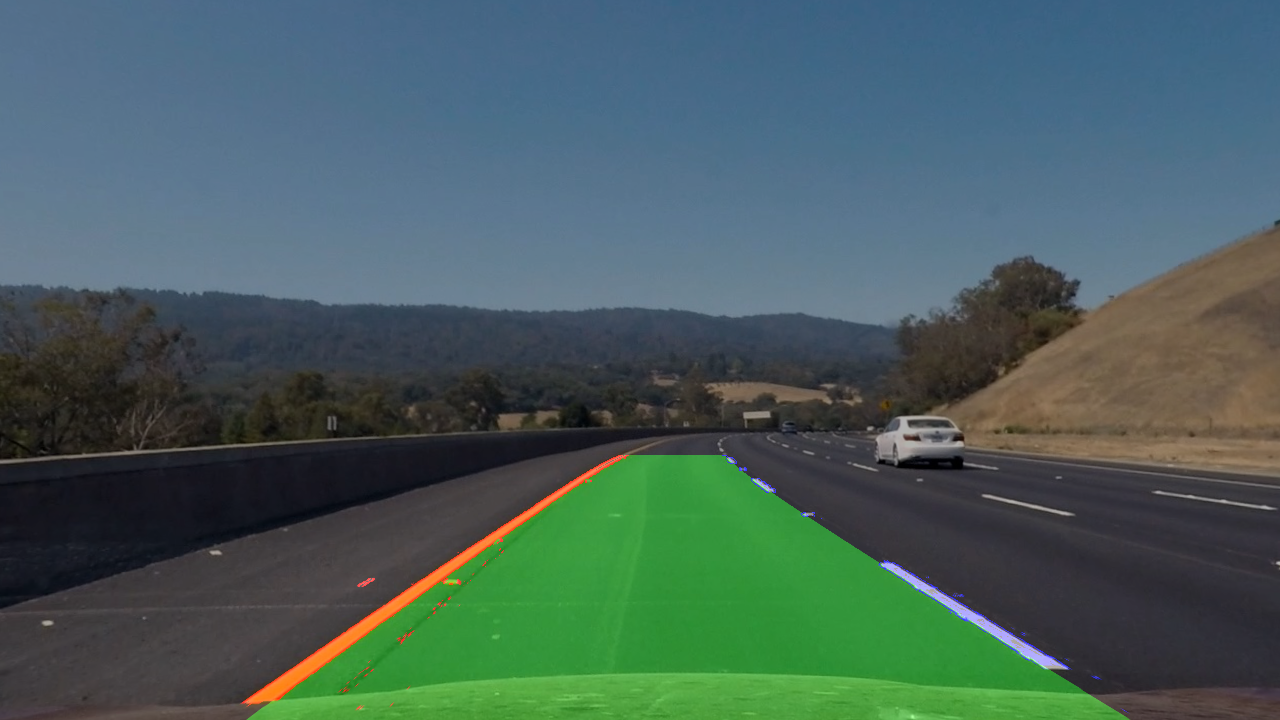
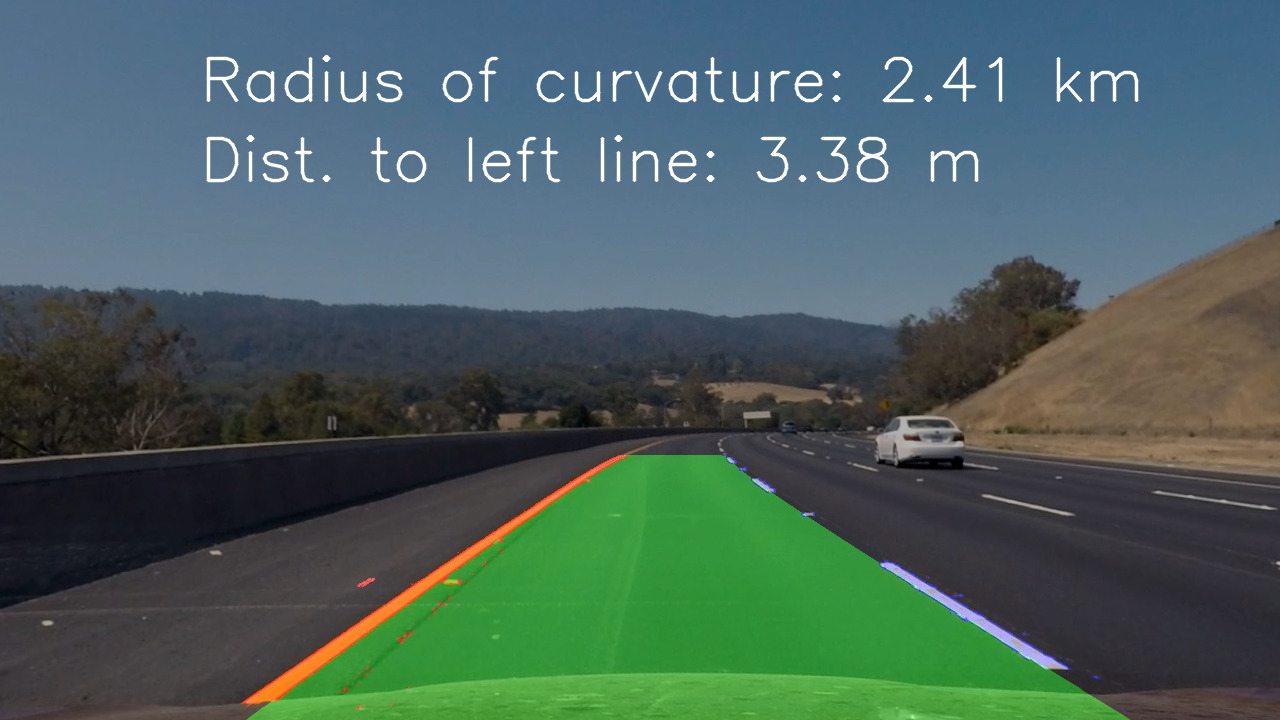
updated writeup

diff --git a/writeup.md b/writeup.md
@@ -19,14 +19,15 @@ The goals / steps of this project are the following:
 
 [image1]: ./output_images/undistort.png "Undistorted"
 [image2]: ./output_images/edge_detected.png "Edge Detected"
-[image3]: ./output_images/top-down.png "Top Down View"
+[image3]: ./output_images/topdown.png "Top Down View"
 [image4]: ./output_images/linefit.png "Line detected and fit"
-[image5]: ./output_images/blended.jpg "Warp back to original view and blended over"
+[image5]: ./output_images/blended.png "Warp back to original view and blended over"
 [video1]: ./output_images/project_video_first_run.mp4 "First Run"
 [video2]: ./output_images/project_video_second_run.mp4 "Second Run"
 
 [image6]: ./output_images/undistort-example.png "Image Calibration"
 [image7]: ./output_images/warp.png "Perspective Change"
+[image7]: ./output_images/pipeline.png "Perspective Change"
 
 ## Description of the work
 
@@ -34,7 +35,7 @@ The goals / steps of this project are the following:
 
 [Rubric](https://review.udacity.com/#!/rubrics/571/view) Points
 
-I have started with invididual steps such as calibration, perspective transform etc. Each individual function is tested using the given sample images. After testing them all, I combined all the code in a single file: pipeline.py. I built first a test run which combines all these steps together. After the test run is working, I started with video. 
+I have started with invididual steps such as calibration, perspective transform etc. Each individual function is tested using the given sample images. After testing them all, I combined all the code in a single file: pipeline.py. I built first a test run (line 273 to line 311) in "pipeline.py"), which combines all these steps together. After the test run is working, I started with video. 
 
 The first trial on video was successful and recorded in "./output_images/project_video_first_run.mp4". The results seem to be very reasonable except that the detection encounters some disturtance when the line is missing for some time or there is strong shadow on the ground. Therefore, I built a second run which adds smoothing function and sanity check. These mechanisms filtered out the unreasonable results and smooth the output. The second run achieved a much better result in the above mentioned scenarios. It is recored in "./output_images/project_video_second_run.mp4". 
 
@@ -90,25 +91,40 @@ Following picture gives an example of the real captured frame after perspective 
 
 #### 4. Find the left and right lines 
 
-Line finding algorithm 
+Line finding algorithm (in "find_lanes()" function) has several steps built-in: 
+1) it searchs for points of left and right lines using histogram and interactive windows. This step outputs "leftx", "lefty", "rightx" and "righty" in "find_lanes()". 
+2) after the points are collected for both lines, it fits the points into a 2nd order polinomial equation, i.e. ax**2 + bx + c. This step outputs "left_fit" and "right_fit" in "find_lanes()". 
+3) the algorithm then recalculates the points using the polinomial. This step outputs "ploty", "left_fitx" and "right_fitx" in "find_lanes()". 
+4) the algorithm will caculate the radius of curverad and distance to the line, for both left and right lines. This function is given in "measure_curvature_pixels()". 
+5) finally, the algorithm checks the sanity of the found lines. This function is given by "sanity_check". If checks succeed, found lines will be stored into two new Line objects, with "detected" value set to "True"; otherwise, algorithm gives two empty lines with "detected" value set to "False". 
+
+"plot_detected_lines" will paint the found lines and line points on the top-down view image calculated in the last step. The green area points the discovered lane betwen left and right lines. Red and blue dots illustrate the original found line points. An example is given below: 
+
+![alt text][image4]
+
+#### 5. The image with discovered lane painted will be warped back to original perspective of camera and blended over the original image
+
+Warping-back is easily implemented by reverse using of "perspective_change()", simply exchaging the source and destination points. 
+
+Blending over original image can be achieved using "addWeighted()" from OpenCV.
+
+Finally, texts about the radius of curvature and distance to left lines are put on the outputted image. An example is given below: 
 
 ![alt text][image5]
 
-#### 5. Describe how (and identify where in your code) you calculated the radius of curvature of the lane and the position of the vehicle with respect to center.
+#### Summary
 
-I did this in lines # through # in my code in `my_other_file.py`
+We can take an overview of the complete pipleline again in the combined picture: 
 
-#### 6. Provide an example image of your result plotted back down onto the road such that the lane area is identified clearly.
-
-I implemented this step in lines # through # in my code in `yet_another_file.py` in the function `map_lane()`.  Here is an example of my result on a test image:
-
-![alt text][image6]
-
----
+![alt text][image8]
 
 ### Pipeline (video)
 
-#### 1. Provide a link to your final video output.  Your pipeline should perform reasonably well on the entire project video (wobbly lines are ok but no catastrophic failures that would cause the car to drive off the road!).
+#### 1. First Trial
+
+My first trial starts with simply packing the pipeline mentioned in last section into a function called "process_image()". The result is stored in 
+
+![alt text][video1]
 
 Here's a [link to my video result](./project_video.mp4)
 
